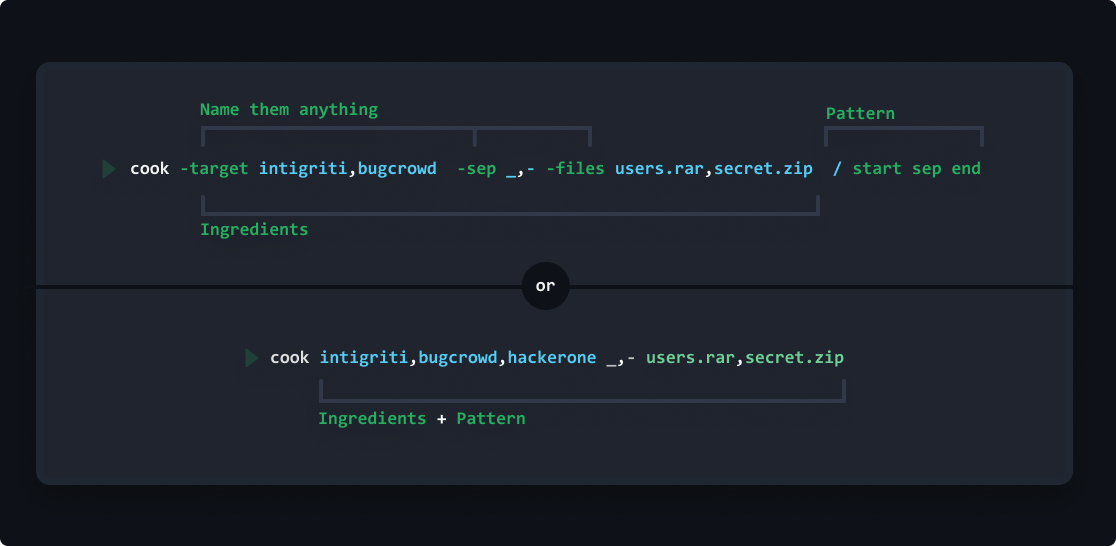
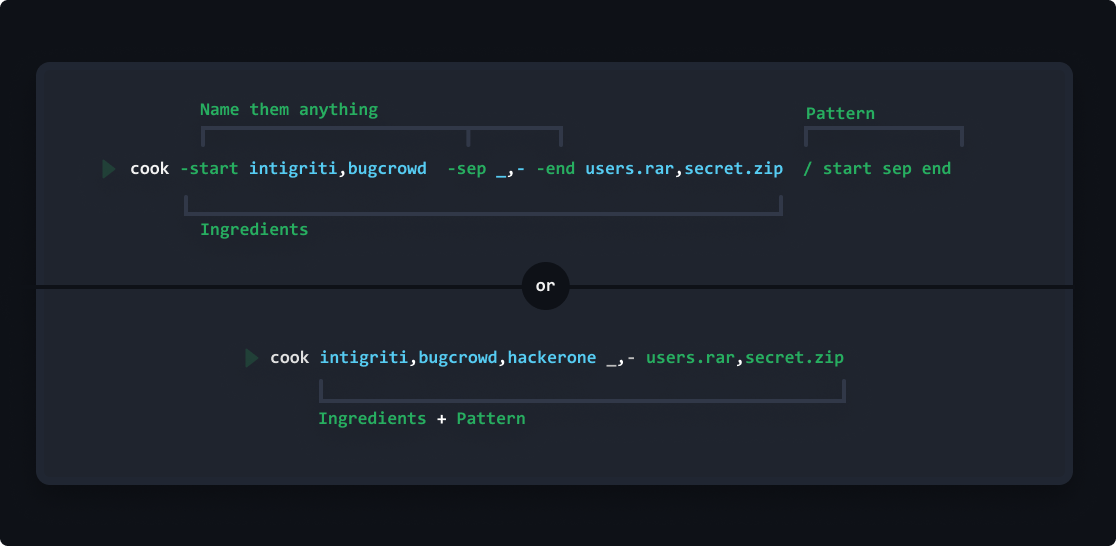
Updated README.md

diff --git a/README.md b/README.md
@@ -5,43 +5,138 @@ An overpower wordlist generator, splitter, merger, finder, saver, create words p
 
 Frustration killer! & Customizable!
 
-### Customizable
-Cook is highly customizable and it depends on
-[cook-ingredients](https://github.com/glitchedgitz/cook-ingredients). Cook Ingredients consists YAML Collection of word-sets, extensions, funcitons to generate pattern and wordlists.
-
 ### Installation
 Use Go or download [latest builds](https://github.com/glitchedgitz/cook/releases/)  
 ```
 go install -v github.com/glitchedgitz/cook/v2/cmd/cook@latest
 ```
-
-> After installation, run `cook` for one time, it will download [cook-ingredients](https://github.com/glitchedgitz/cook-ingredients) automatically at `%USERPROFILE%/cook-ingredients` for windows and `$home/cook-ingredients` for linux.
+> After installation, run `cook` for one time.    
+> It will setup and download [cook-ingredients](https://github.com/glitchedgitz/cook-ingredients) at    
+> `%USERPROFILE%/cook-ingredients` for windows &     
+> `$home/cook-ingredients` for linux.
 
 # Basic
+
 Without basics, everything is useless.
 <img src="assets/basic.png">
 
-## Parametric Approach
-You can define your own params and use them to generate the pattern. This will be useful once you understand [methods](#methods)
+### Ranges
+<img src="./assets/ranges.png">
+
+#### Use case: Sites using custom suffix/preffix?
+<img src="assets/prefixsuffix.png">
+
+
+## Param Approach
+Name them anything and use them to generate the pattern.
+This will be more useful when you apply encoding column-wise using [methods](#methods).
+
+```bash
+cook -start intigriti,bugcrowd  -sep _,- -end users.rar,secret.zip  / start sep end
+```
+
 <img src="assets/parameterapproach.png">
 
-# Save wordlists and word sets
+```
+Note: you must include parameter in the pattern, otherwise it will not print anything. 
+```
+
+### `-append` join wordlists line by line
+
+Append line by line. So basically if you want to merge two lists line by line. Then use it. And as always you can append multiple columns using column
+<img src="./assets/append.png">
+
+### `-min` Print at every step
+<img src="./assets/min.png">
+
+
+
+### `*` and `**` Repeat Operator
+
+- Use `*` for horizontal repeating.
+- Use `**` for vertical repeating.
+- And try this `*10-1` or this `*1-10`.
+
+<img src="./assets/repeat.png">
+
+#### `Null Payloads` fuzzing with fuff
+```bash
+cook **100 | ffuf -w - -u https://example.com/FUZZ
+```
+
+# Access Wordlists from seclist/assetnotes/fuzzdb/etc...
+
+Cook uses [cook-ingredients](https://github.com/glitchedgitz/cook-ingredients), it's `YAML` Collection of word-sets, extensions, funcitons to generate pattern and wordlists.
 <img src="assets/savewordlist.png">
 
-### Search Wordlist
+Current fetched databases
+
+| Name                  | Link                                               |
+|-----------------------|----------------------------------------------------|
+| Assetnotes Wordlsits  | [https://wordlists.assetnote.io/](https://wordlists.assetnote.io/) |
+| Seclist               | [https://github.com/danielmiessler/SecLists](https://github.com/danielmiessler/SecLists) |
+| FuzzDB                | [https://github.com/fuzzdb-project/fuzzdb](https://github.com/fuzzdb-project/fuzzdb) |
+| Bruteforce Database   | [https://github.com/duyet/bruteforce-database](https://github.com/duyet/bruteforce-database) |
+| Bruteforce Lists      | [https://github.com/random-robbie/bruteforce-lists](https://github.com/random-robbie/bruteforce-lists) |
+| OneListForAll         | [https://github.com/six2dez/OneListForAll](https://github.com/six2dez/OneListForAll) |
+
+#### You probably need to search wordlists from these repos
+
 ```
-cook search keyword
+cook search [keyword]
 ```
 
-## Reading File using Cook
-If you want to use a file from current working directory.  
-Use `:` after param name. 
+Here we search for `api` using `cook search api`
+
+<img src="assets/search.png">
+
+>
+>
+
+then using the file name you can fetch use the file `cook an-apiroutes`
+
+> Note that `sec` is shortname for seclist, `an` for assetnote, `fz` for fuzzdb like this...
+
+<img src="assets/using.png" width="70%">
+
+
+
+
+### Add/Update/Delete wordlists/wordsets
+Edit `my.yaml` manually or use these commands.
+
+#### Add/Update:
+```
+cook add [keyword]=[values, separated by comma] in [category]
+```
+If `keyword` doesn't exist it will create it.Otherwise it will update it and add the new value in the same variable.
+
+```bash
+cook add same variable=https://example2.com in files
+```
+
+```bash
+cook add unique_name=word1,word2,word3 in lists
+```
+> Category are `files`, `raw-files`, `functions` and `lists`
+
+#### Delete
+```cook delete [keyword]```
+
+## Local File or Fetch URL
+To fetch local files or URLs, use `:` after param name. 
+
 ```
 cook -f: live.txt f
 ```
+```
+cook -f: https://example.com/wordlist.txt f
+```
 
 # Methods
-Methods will let you apply diffenent sets of operation on final output or particular column as you want. You can encode, decode, reverse, split, sort, extract different part of urls and much more...
+Using methods you can encode, decode, reverse, split, sort, extract and can do much more...
+
+Methods can be applied on final output or column-wise
 
 - `-m/-method` to apply methods on the final output
 - `-mc/-methodcol` to apply column-wise.
@@ -49,6 +144,27 @@ Methods will let you apply diffenent sets of operation on final output or partic
 - `param.md5.b64e` apply multiple methods, this will first md5 hash the value and then base64 encode the hashed value.
 
 <img src="assets/methods.png">
+
+## Smart Break & Smart Join
+
+Special focus on these 2 methods, these will be great help everytime you use any wordlist.
+
+#### Smart Break
+```
+$ cook adminNew,admin_new -m smart
+admin
+New
+admin
+new
+```
+
+#### Smart Join - It breaks and join back with the supplied character.
+```
+$ cook adminNew -m smartjoin[:_]
+admin_New
+```
+
+All methods `cook help methods`
 <img src="assets/methdocs.png">
 
 <details><summary>All methods</summary>
@@ -129,16 +245,39 @@ HASHES
 ```
 </details>
 
-## Multiple Methods
-You can apply multiple set of operations on partiocular column or final output in one command. So you don't have to re-run the tool again and again.
+# ULTIMATE USAGE
+Too overpower? But everyday you came accross weird BB stuff, like a big json file from target? May be you want to extract, join, merge or whatever. You can use cook smartly as per your usecase.
 
-To understanding the usage, suppose you read a blog, consider this one https://blog.assetnote.io/2020/09/18/finding-hidden-files-folders-iis-bigquery/.
+### Real life usage example:
+Let's say you read this blog https://blog.assetnote.io/2020/09/18/finding-hidden-files-folders-iis-bigquery/.
+
+Now you will also want to save `BIG ZIP FILE` wordlist by assetnote. `https://storage.googleapis.com/zipfilesbq/zipfiles.json`
+
+COOK already saved this file at `cook shub_zip_files`, but if save a wordlist, use `cook add shub_zip_files=[URL] in files`
+
+File contains data like this, but this isn't directly useful for you, Is it?
+```json
+{"repo_name":"cocowool/RoseCMS","ref":"refs/heads/1","path":"user_guide/_downloads/ELDocs.tmbundle.zip","mode":"33261","id":"f7a11b364ca918379b48ad525798148e7470b6b1"}
+{"repo_name":"xuguanfeng/practise","ref":"refs/heads/1","path":"node_modules/selenium-webdriver/node_modules/adm-zip/test/assets/fast.zip","mode":"33188","id":"f4ed17b98c9d7bcd21efc4523ce75fbe2b071d0a"}
+{"repo_name":"xuguanfeng/practise","ref":"refs/heads/1","path":"node_modules/selenium-webdriver/node_modules/adm-zip/test/assets/store.zip","mode":"33188","id":"e2add30dc0e3129dc89e20a71abe7314052d0002"}
+{"repo_name":"xuguanfeng/practise","ref":"refs/heads/1","path":"node_modules/selenium-webdriver/node_modules/adm-zip/test/assets/ultra.zip","mode":"33188","id":"86a8ec776107c075ce2c7f803472aa97dc25cbf7"}
+{"repo_name":"xuguanfeng/practise","ref":"refs/heads/1","path":"node_modules/selenium-webdriver/node_modules/adm-zip/test/assets/normal.zip","mode":"33188","id":"b4602c94ee000ee54c71c9302b9db956b3fd9f0e"}
+{"repo_name":"xuguanfeng/practise","ref":"refs/heads/1","path":"node_modules/selenium-webdriver/node_modules/adm-zip/test/assets/fastest.zip","mode":"33188","id":"f4ed17b98c9d7bcd21efc4523ce75fbe2b071d0a"}
+{"repo_name":"xuguanfeng/practise","ref":"refs/heads/1","path":"node_modules/selenium-webdriver/node_modules/adm-zip/test/assets/maximum.zip","mode":"33188","id":"86a8ec776107c075ce2c7f803472aa97dc25cbf7"}
+...
+```
+
+### Single line solution
+Not just we can extract it, we extracted filebase from path and sort unique, then use smartjoin to create diff permuataions.
 
 ```
 cook -z shub_zip_files z.json[path].fb.sortu.smartjoin[c:_]
 ```
 
 <img src="./assets/multiplemethods.png">
+
+
+
 
 # Direct fuzzing with FUFF
 You can use generated output from cook directly with [ffuf](https://github.com/ffuf/ffuf) using pipe
@@ -181,41 +320,12 @@ cook -dob date[17,Sep,1994] elliot _,-, dob
 |-h, -help| Help |
 |-min | Minimum no of columns to print |
 
-### -append
-Append line by line. So basically if you want to merge two lists line by line. Then use it. And as always you can append multiple columns using column
-<img src="./assets/append.png"> 
-
-### -min
-<img src="./assets/min.png">
-
-# Ranges
-Something useful...
-<img src="./assets/ranges.png">
-
-# Repeat Operator
-You can repeat a string horizontally or vertically.
-- Use `*` for horizontal repeating.
-- Use `**` for vertical repeating.
-- And try this `*10-1` or this `*1-10`.
-- Create Null Payloads and directly fuzz with fuff. `cook **100 | fuff ...`
-<img src="./assets/repeat.png">
-
 </details>
 
-# Breaking Changes in veriosn v2.x.x
-Version 1.6 and Version 2 have signifant breaking changes to improe the usability of the tool.
-
-- Previously columns was separated with colon. Now they are separated by space
-- Single cook.yaml file removed. Now there is folder.
-- URL support for yaml file and added sources with over 5500 wordlist sets.
-- File regex removed, now use .regex[] method for regex
-- Taking file input needs colon after param
-- -case flag removed, now you can use upper, lower and title
-- Added Methods
-- Removed charset and extensions, now they are in list
-- Simplyfied ranges
-
 # Contribute
+- Concurrency
+- Autocomplete for shells
+- Make append work something like this `cook file1 =/= file2`, make sure chars directly work with all terminals.
 - Add wordlists, wordsets, functions, ports and other things in [cook-ingredients](https://github.com/glitchedgitz/cook-ingredients)
 - Making **raw string** works like as it works in programming languages. Means better parser.
 - I don't know, you might use your creativity and add some awesome features.
